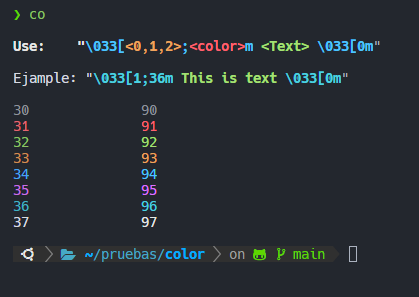
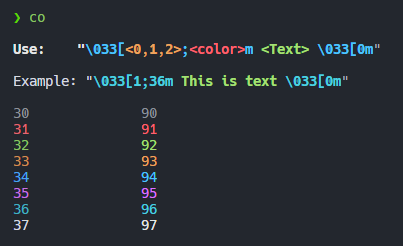
modificacion1

Changed region(s): [[0.0298, 0.1138, 0.9529, 0.939], [0.0298, 0.0285, 0.1191, 0.0854], [0.8337, 0.8252, 0.8635, 0.8821]]

diff --git a/colors.c b/colors.c
@@ -1,12 +1,12 @@
 /* ************************************************************************** */
 /*                                                                            */
 /*                                                        :::      ::::::::   */
-/*   colores.c                                          :+:      :+:    :+:   */
+/*   colors.c                                           :+:      :+:    :+:   */
 /*                                                    +:+ +:+         +:+     */
 /*   By: rdelicad <rdelicad@student.42.com>         +#+  +:+       +#+        */
 /*                                                +#+#+#+#+#+   +#+           */
 /*   Created: 2024/04/20 12:23:13 by rdelicad          #+#    #+#             */
-/*   Updated: 2024/04/28 21:37:37 by rdelicad         ###   ########.fr       */
+/*   Updated: 2024/04/28 22:03:01 by rdelicad         ###   ########.fr       */
 /*                                                                            */
 /* ************************************************************************** */
 
@@ -33,7 +33,7 @@ int main()
 	printf("%sUse:\t\"%s\\033[%s<0,1,2>%s;", BlancoI, AzulI, AmarilloI, AzulI);
 	printf("%s<color>%sm%s <Text> ", RojoI, AzulI, VerdeI);
 	printf("%s\\033[0m%s\"\n\n", AzulI, Reset);
-	printf("%sEjample: \"%s\\033[1;36m ", Blanco, CelesteI);
+	printf("%sExample: \"%s\\033[1;36m ", Blanco, CelesteI);
 	printf("%sThis is text", VerdeI);
 	printf(" %s\\033[0m%s\"\n\n", CelesteI, Reset);
 	
